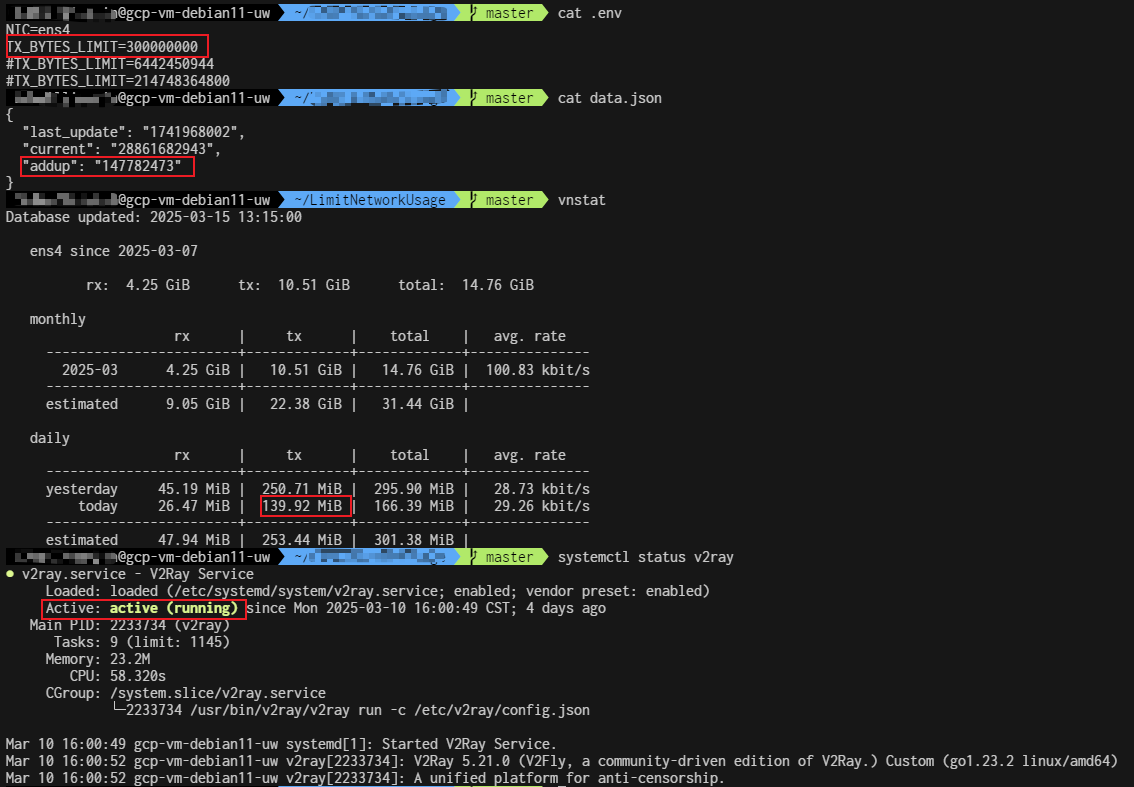
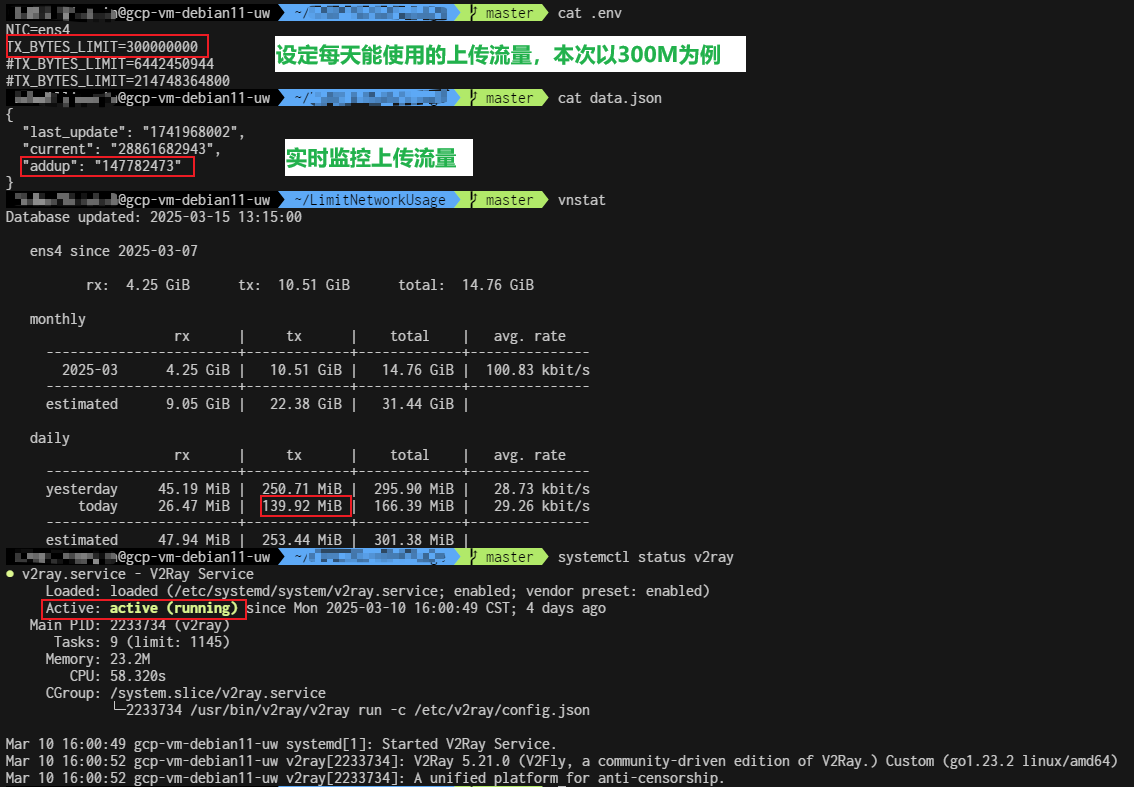
update

Changed region(s): [[0.216, 0.0305, 0.679, 0.0915], [0.2469, 0.1525, 0.4321, 0.244]]

diff --git a/README.md b/README.md
@@ -29,11 +29,13 @@
 
 效果展示：
 
-下面以每天0.3G流量上限为例（这个数值可修改，GCP实际每天可使用6G上传流量，只要每月不超过200G即可）展示一下效果：
+下面以每天0.3G流量上限为例（这个数值可修改，**GCP实际每天可使用6G上传流量，只要每月不超过200G即可**）展示一下效果：
 
 达到额度之前：
 
 ![status_enabled](./.res/status_enabled.png)
+
+
 
 达到额度之后：
 
